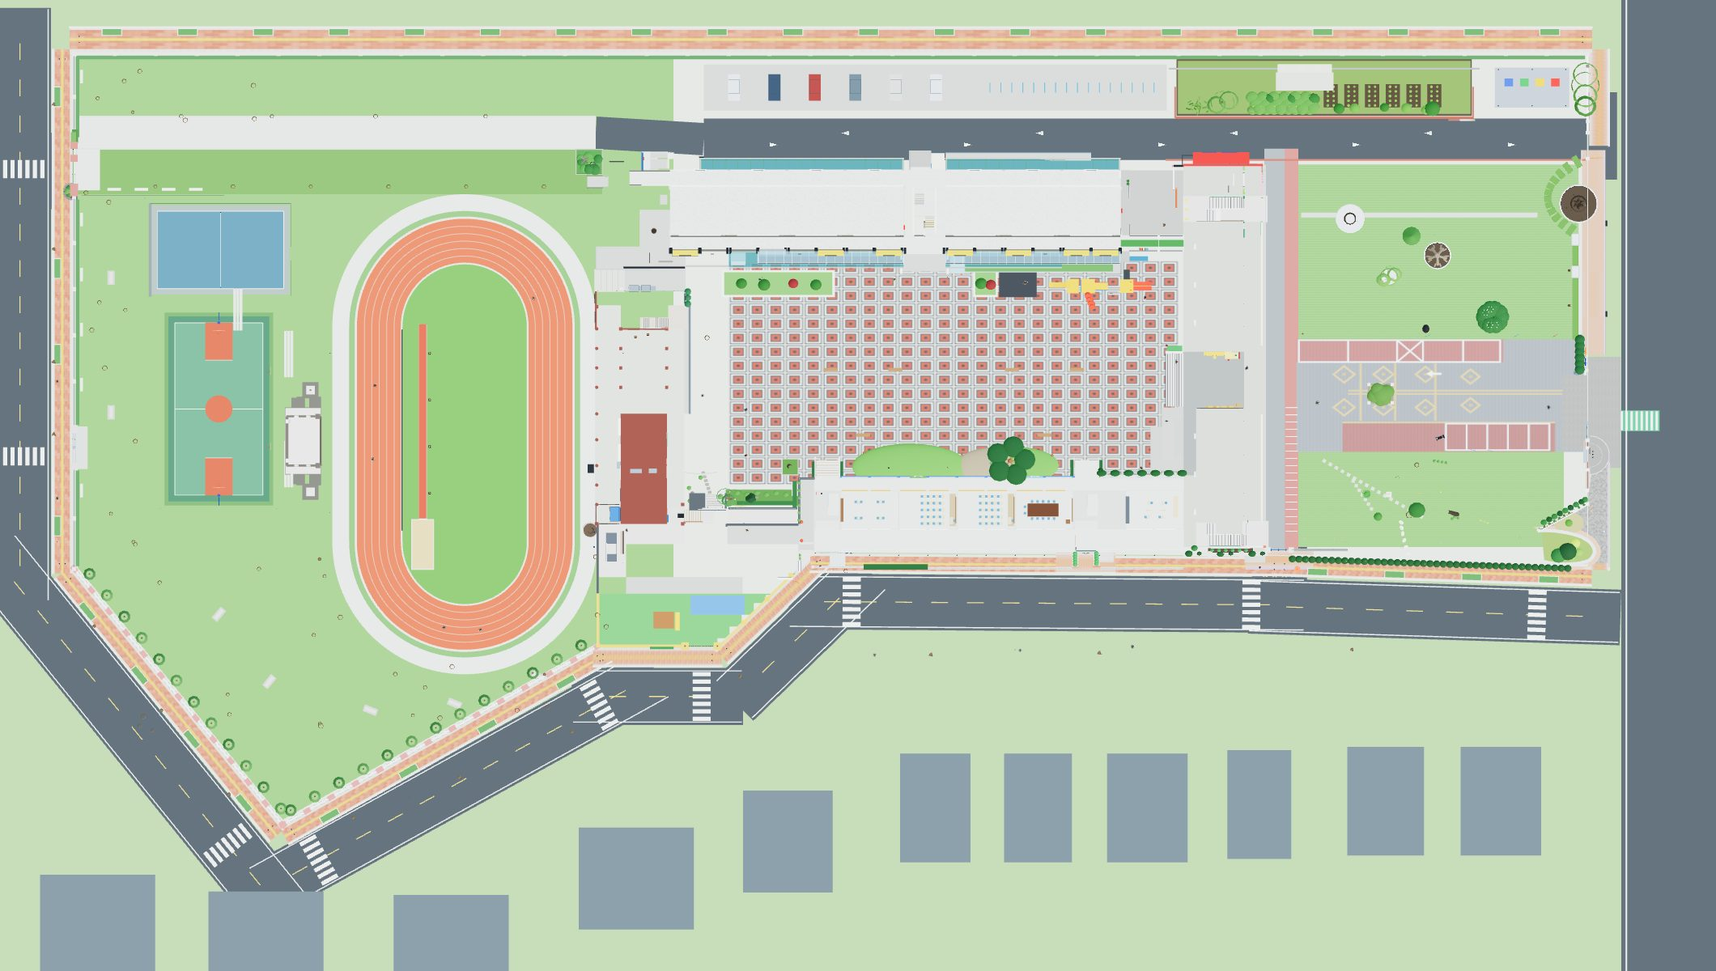
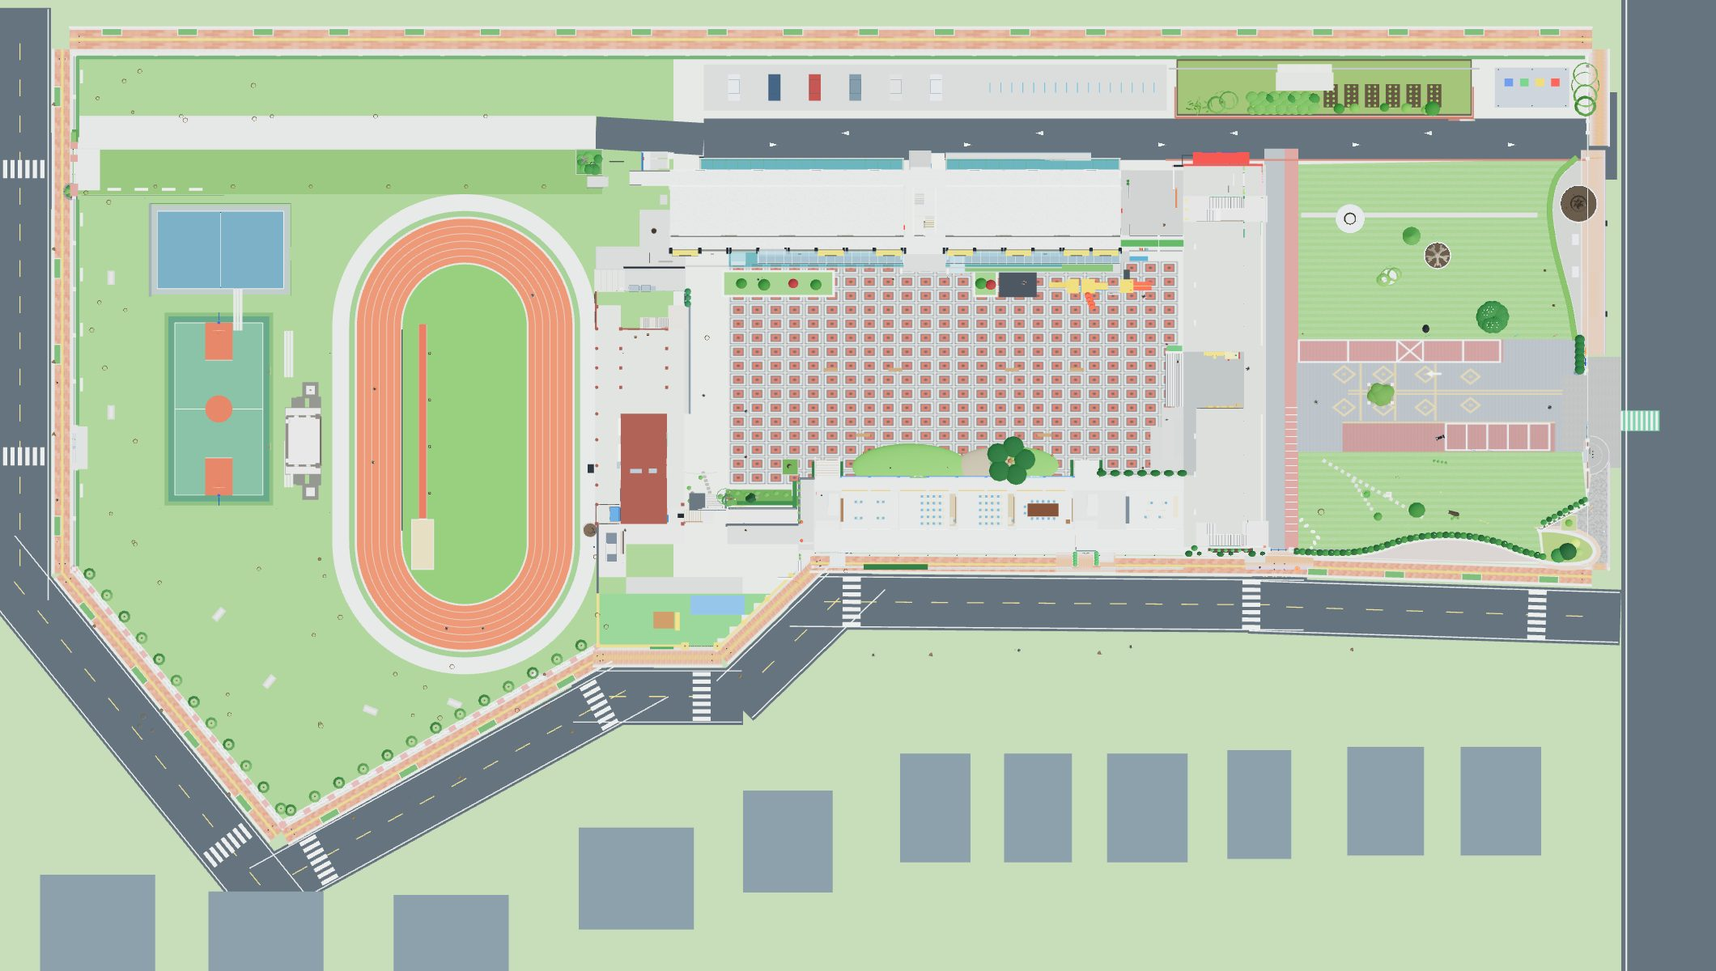
feat(forecourt): reshape main-gate landscaping to the forecourt hedge plan (v2.11.2)
Per the school's forecourt hedge-planting plan (東棟大樓 / 學校大門 / 新南側門 / 東側門):
- south lawn: plan outline instead of a rectangle - straight along the plaza, along
  the gate fence and diagonal low wall, and an S-curve along Jianxing S. Rd Lane 42
- south boundary (Segment A): straight wall replaced by the S-curved washed-stone
  low wall with a continuous Fenggang persimmon / osmanthus hedge on the lawn side;
  the recess outside is paved; canopy trees follow the curve
- north lawn: plan outline with one arc toward Fuxing Rd from the FU-SHING wall,
  behind the old banyan, to the east-gate south pier; continuous clipped hedge
  along the arc (replacing the straight runs and the small banyan arc); paving
  between the arc and the sidewalk; goldenrain trees moved inside the arc
- plan's square bed in the paved bay between the corner lobe and the diagonal wall
- plan tree and nine white stepping stones moved to their plan positions by the new
  south gate (the old plan mapping compressed the forecourt depth by ~13 m)
- shared world-space plan curves and helpers (sampleXZCurve / offsetXZ / flatXZPoly)
- admin map images regenerated

Claude-Session: https://claude.ai/code/session_0167Rfd13qErLKZLgH1cNLB3

Changed region(s): [[0.8406, 0.1542, 0.934, 0.3392], [0.7472, 0.5242, 0.9028, 0.5858], [0.9028, 0.4625, 0.934, 0.5242]]

diff --git a/campus-3d.js b/campus-3d.js
@@ -958,6 +958,47 @@ function makeCampusLawnTexture() {
   return tex;
 }
 
+// ============================================================================
+// 《學校前庭綠籬規劃平面圖》換算之世界座標曲線（v2.11.2）
+//  ・南側（建興南路42巷）邊界：自轉角圓弧花台西端起，向北內凹成 S 形曲線，至學校新南側門
+//  ・北側草坪臨復興路緣：自 FU-SHING 波浪矮牆北端起，向草坪內凹之大圓弧，經老榕樹後方至東側門南柱
+//  平面圖錨點：校門主立柱 (px 340) ↔ z 5.2、新南側門 (px 98) ↔ z 21、草坪北緣 (py 300) ↔ x 70.2、
+//  FU-SHING 北端 (px 488) ↔ z −12.6、東側門 (px 760) ↔ z −40；平面圖縱橫比例不一，故分段換算。
+// ============================================================================
+const FORECOURT_SOUTH_CURVE = [   // [x, z]，由東（花台）往西（新南側門）
+  [108.1, 21.6], [104.6, 20.6], [101.7, 19.5], [97.2, 18.5], [92.0, 18.3],
+  [86.9, 19.0], [83.0, 20.2], [79.2, 20.9], [74.1, 21.0], [70.2, 20.8]
+];
+const FORECOURT_NORTH_CURVE = [   // [x, z]，由南（FU-SHING 矮牆北端）往北（東側門南柱）
+  [113.8, -12.6], [112.9, -18.0], [111.6, -23.0], [110.4, -28.0], [109.9, -33.5], [111.0, -37.5], [113.9, -40.3]
+];
+function sampleXZCurve(pts, step = 0.5) {
+  const curve = new THREE.CatmullRomCurve3(pts.map(([x, z]) => new THREE.Vector3(x, 0, z)), false, 'centripetal');
+  return curve.getSpacedPoints(Math.max(4, Math.ceil(curve.getLength() / step)));
+}
+function offsetXZ(points, dist, towardX, towardZ) {  // 沿法線偏移；toward 指定偏移的大致方向
+  return points.map((p, i) => {
+    const a = points[Math.max(0, i - 1)], b = points[Math.min(points.length - 1, i + 1)];
+    let nx = -(b.z - a.z), nz = b.x - a.x;
+    const l = Math.hypot(nx, nz) || 1; nx /= l; nz /= l;
+    if (nx * towardX + nz * towardZ < 0) { nx = -nx; nz = -nz; }
+    return new THREE.Vector3(p.x + nx * dist, 0, p.z + nz * dist);
+  });
+}
+function flatXZPoly(points, mat, y, parent, uvScale = 0.1) {
+  const sh = new THREE.Shape();
+  points.forEach((p, i) => { if (i === 0) sh.moveTo(p.x, -p.z); else sh.lineTo(p.x, -p.z); });
+  sh.closePath();
+  const geo = new THREE.ShapeGeometry(sh);
+  const uv = geo.attributes.uv;
+  for (let i = 0; i < uv.count; i++) uv.setXY(i, uv.getX(i) * uvScale, uv.getY(i) * uvScale);
+  geo.rotateX(-Math.PI / 2);
+  const m = new THREE.Mesh(geo, mat);
+  m.position.y = y; m.receiveShadow = true;
+  parent.add(m);
+  return m;
+}
+
 // Exact 7-Vertex Campus Perimeter Polygon (`V0..V6` in pixel coordinates)
 // The Rear Perimeter Wall (`V0 -> V6 -> V5 -> V4`) encloses 100% of the Sports Ground (`08`) & Ball Courts (`09`)
 // with a wide, continuous Campus Green Lawn Buffer Zone (`校園草地緩衝區域`) between the sports ground and the wall!
@@ -2386,54 +2427,48 @@ const planterHedgeMat = new THREE.MeshStandardMaterial({ color: 0x4b8546, roughn
   // - 正門左側臨復興路段 (Z(265)..Z(326)) 為開放式通學步道與弧形綠籬花台。
 
   // 6) South Perimeter Wall & Authentic South Gates (`建興南路42巷`)
-  // Segment A: 東南轉角至學校新南側門 (依據街景照片與《綠籬植栽平面圖》區域二：常綠修剪綠籬矮花台，徹底移除突兀之淡綠色隔離板)
+  // Segment A: 轉角圓弧花台至學校新南側門 — 依《學校前庭綠籬規劃平面圖》改為向北內凹之 S 形抿石子矮牆，
+  //            牆內（草坪側）沿線連續栽植楓港柿／桂花常綠綠籬，牆外內凹處以通學步道連鎖磚補齊。
   {
-    const segAX1 = X(955), segAZ1 = Z(326);
-    const segAX2 = X(772) + 2.0, segAZ2 = Z(320);
-    const segALen = Math.hypot(segAX2 - segAX1, segAZ2 - segAZ1);
-    const segAAng = Math.atan2(segAX2 - segAX1, segAZ2 - segAZ1);
-    const segACx = (segAX1 + segAX2) / 2, segACz = (segAZ1 + segAZ2) / 2;
-
-    const segAGrp = new THREE.Group();
-    segAGrp.position.set(segACx, 0, segACz);
-    segAGrp.rotation.y = segAAng - Math.PI / 2;
-
-    // A. 抿石子低矮基座 (高 0.30m，平整素雅，無任何突兀隔離板)
-    addBox(segAGrp, segALen, 0.30, 0.38, curbStoneMat, 0, 0.15, 0);
-    layerGroups.boundary.add(segAGrp);
-
-    // C. 圍籬外側沿通學步道連續栽植《2023_0604 區域二》楓港柿與桂花樹常綠綠籬 (高約 0.85m)
-    const nHedgesA = Math.max(12, Math.floor(segALen / 1.0));
-    const fenggangMat = new THREE.MeshStandardMaterial({ color: 0x214f24, roughness: 0.65 }); // 屏東原生常綠楓港柿
-    const osmanthusFlowerMat = new THREE.MeshStandardMaterial({ color: 0xfff6ad, roughness: 0.55 }); // 芬芳桂花花簇
-    // 左側東南轉角退縮防突出：依指示移除轉角突出綠籬，從 h = 3 開始栽植
-    for (let h = 3; h <= nHedgesA; h++) {
-      const ratio = h / nHedgesA;
-      const hx = segAX1 + ratio * (segAX2 - segAX1);
-      const hz = segAZ1 + ratio * (segAZ2 - segAZ1);
-      // 綠籬沿通學步道側稍微外推 0.55m
-      const normX = Math.cos(segAAng) * 0.55;
-      const normZ = -Math.sin(segAAng) * 0.55;
-      const hMesh = addMesh(layerGroups.boundary, new THREE.SphereGeometry(0.50, 10, 8), fenggangMat, hx + normX, 0.52, hz + normZ);
-      hMesh.scale.set(1.15, 0.95, 1.1);
-      // 每間隔數株點綴桂花盛開芬芳金黃小白花
+    const wallPts = sampleXZCurve(FORECOURT_SOUTH_CURVE, 0.5);
+    for (let i = 0; i < wallPts.length - 1; i++) {
+      const a = wallPts[i], b = wallPts[i + 1];
+      const len = a.distanceTo(b);
+      const wg = new THREE.Group();
+      wg.position.set((a.x + b.x) / 2, 0, (a.z + b.z) / 2);
+      wg.rotation.y = -Math.atan2(b.z - a.z, b.x - a.x);
+      addBox(wg, len + 0.04, 0.30, 0.34, curbStoneMat, 0, 0.15, 0);
+      addBox(wg, len + 0.06, 0.05, 0.40, curbStoneMat, 0, 0.325, 0);
+      layerGroups.boundary.add(wg);
+    }
+    // 牆內綠籬（平面圖沿牆圓點）
+    const fenggangMat = new THREE.MeshStandardMaterial({ color: 0x214f24, roughness: 0.65 });
+    const fenggangMat2 = new THREE.MeshStandardMaterial({ color: 0x2e6a2c, roughness: 0.68 });
+    const osmanthusFlowerMat = new THREE.MeshStandardMaterial({ color: 0xfff6ad, roughness: 0.55 });
+    const hedgePts = offsetXZ(sampleXZCurve(FORECOURT_SOUTH_CURVE, 0.9), 0.62, 0, -1);
+    hedgePts.forEach((p, h) => {
+      const hMesh = addMesh(layerGroups.boundary, new THREE.SphereGeometry(0.50, 10, 8), h % 2 ? fenggangMat : fenggangMat2, p.x, 0.55, p.z);
+      hMesh.scale.set(1.12, 0.95, 1.08);
       if (h % 3 === 1) {
-        const fl = addMesh(layerGroups.boundary, new THREE.SphereGeometry(0.18, 6, 6), osmanthusFlowerMat, hx + normX + 0.1, 0.78, hz + normZ + 0.1);
+        const fl = addMesh(layerGroups.boundary, new THREE.SphereGeometry(0.17, 6, 6), osmanthusFlowerMat, p.x + 0.1, 0.86, p.z - 0.1);
         fl.scale.set(1.3, 0.85, 1.1);
       }
-      // 綠籬底座覆土微地形
-      addBox(layerGroups.boundary, segALen / nHedgesA + 0.12, 0.10, 0.85, mats.soil, hx + normX, 0.05, hz + normZ, false);
+    });
+    // 牆外內凹處補鋪通學步道連鎖磚（至原直線邊界 z ≈ 21.6）
+    {
+      const outer = wallPts.map(p => new THREE.Vector3(p.x, 0, p.z + 0.18));              // 由東往西
+      const pavMat = new THREE.MeshStandardMaterial({ color: 0xb8a39a, roughness: 0.88, polygonOffset: true, polygonOffsetFactor: -2, polygonOffsetUnits: -2 });
+      flatXZPoly(outer.concat([new THREE.Vector3(70.2, 0, 21.75), new THREE.Vector3(108.1, 0, 21.75)]), pavMat, 0.07, layerGroups.boundary, 1);
     }
-
-    // D. 圍籬內側校園林蔭大喬木群 (樟樹、蒲葵)
-    const nCanopy = 3;
-    for (let t = 0; t < nCanopy; t++) {
-      const tx = segAX1 + ((t + 0.5) / nCanopy) * (segAX2 - segAX1);
-      const tz = segAZ1 + ((t + 0.5) / nCanopy) * (segAZ2 - segAZ1) - 2.8;
-      addMesh(layerGroups.boundary, new THREE.CylinderGeometry(0.22, 0.30, 4.2, 8), mats.slab, tx, 2.1, tz);
-      const trCrown = addMesh(layerGroups.boundary, new THREE.SphereGeometry(2.4, 12, 10), new THREE.MeshStandardMaterial({ color: 0x245422, roughness: 0.85 }), tx, 4.8, tz);
+    // 牆內校園林蔭喬木（沿曲線內側 2.8 m）
+    const canopyPts = offsetXZ(sampleXZCurve(FORECOURT_SOUTH_CURVE, 0.5), 2.9, 0, -1);
+    const crownMat = new THREE.MeshStandardMaterial({ color: 0x245422, roughness: 0.85 });
+    [0.18, 0.55, 0.86].forEach(f => {
+      const p = canopyPts[Math.floor(f * (canopyPts.length - 1))];
+      addMesh(layerGroups.boundary, new THREE.CylinderGeometry(0.22, 0.30, 4.2, 8), mats.slab, p.x, 2.1, p.z);
+      const trCrown = addMesh(layerGroups.boundary, new THREE.SphereGeometry(2.4, 12, 10), crownMat, p.x, 4.8, p.z);
       trCrown.scale.set(1.3, 0.92, 1.25);
-    }
+    });
   }
 
   // 學校新南側門 (座落於東棟大樓右側，建興南路42巷與復興路378巷交會處，依實景照片4 1:1 精確重建)
@@ -15064,6 +15099,8 @@ function buildMainGateLayer() {
   // 平面圖基準：校門主立柱南面 (px=355) 、立柱東面 (py=700)；左 = 南 (+Z)，下 = 東 (+X)
   const SU = 0.0643, SV = 0.078, PX0 = 355, PY0 = 700;
   const P2W = (px, py) => new THREE.Vector3(pylonX + 0.925 - (PY0 - py) * SV, 0, pylonZ + 0.36 + (PX0 - px) * SU);
+  // 平面圖縱向（py → 世界 x）修正：py ≥ 592（大門與圓弧花台一帶）沿用 P2W；py < 592 線性延伸至草坪北緣 py 300 ↔ x 70.2
+  const PD = py => py >= 592 ? pylonX + 0.925 - (PY0 - py) * SV : 70.2 + (py - 300) * ((pylonX + 0.925 - (PY0 - 592) * SV) - 70.2) / 292;
 
   // 小工具：沿切線方向旋轉 (群組局部 +x = 切線，局部 -z = 朝復興路外側)
   const orientTo = (grp, tx, tz) => { grp.rotation.y = -Math.atan2(tz, tx); };
@@ -15787,9 +15824,14 @@ function buildMainGateLayer() {
   {
     const tx = pylonX - 2.9, tz = pylonZ + 10.6;
     // 枯黃草皮小圓塊 (嵌於連鎖磚鋪面中)
-    const dryLawnMat = new THREE.MeshStandardMaterial({ color: 0xaaa36c, roughness: 0.95, polygonOffset: true, polygonOffsetFactor: -3, polygonOffsetUnits: -3 });
-    const lawn = addMesh(mg, new THREE.CylinderGeometry(1.7, 1.7, 0.02, 28), dryLawnMat, tx, 0.18, tz, false);
-    lawn.scale.set(1.35, 1, 1.0);
+    // 平面圖：圓弧花台與斜向矮牆之間鋪面上的「方形植穴」（約 2.6 m 見方，花崗石緣石＋草皮）
+    const dryLawnMat = new THREE.MeshStandardMaterial({ color: 0x8fa35a, roughness: 0.95 });
+    const sqCurbMat = new THREE.MeshStandardMaterial({ color: 0xc9c6bd, roughness: 0.75 });
+    const sq = 2.6;
+    addBox(mg, sq - 0.24, 0.06, sq - 0.24, dryLawnMat, tx, 0.20, tz, false);
+    [[0, sq / 2 - 0.06, sq, 0.12], [0, -(sq / 2 - 0.06), sq, 0.12], [sq / 2 - 0.06, 0, 0.12, sq], [-(sq / 2 - 0.06), 0, 0.12, sq]].forEach(([ox, oz, w, d]) => {
+      addBox(mg, w, 0.16, d, sqCurbMat, tx + ox, 0.25, tz + oz);
+    });
     // 圓球形修剪灌木 (街景中央圓球狀常綠灌木)
     const roundShrubMat = new THREE.MeshStandardMaterial({ color: 0x4d8a2e, roughness: 0.82 });
     const ball = addMesh(mg, new THREE.SphereGeometry(0.58, 14, 11), roundShrubMat, tx, 0.78, tz);
@@ -15855,13 +15897,14 @@ function buildMainGateLayer() {
         c.scale.set(1.2, 0.72, 1.2);
       });
     }
-    const t1 = P2W(215, 335), t2 = P2W(335, 350);
+    // 平面圖草坪內大喬木：舊換算將平面圖縱向壓縮（草坪北緣誤置於 x≈85），改以 PD() 修正至 x≈74
+    const t1 = P2W(222, 330); t1.x = PD(330);
     bigTree(t1.x, t1.z, 1.15);
-    bigTree(t2.x, t2.z, 0.85);
 
     const stepMat = new THREE.MeshStandardMaterial({ color: 0xe9e7e0, roughness: 0.88 });
-    [[122, 332], [138, 328], [154, 325], [170, 322], [184, 320], [197, 319]].forEach(([a, b], i) => {
-      const p = P2W(a, b);
+    // 平面圖白色踏石：自新南側門向東北弧形排列（9 枚）
+    [[105, 345], [112, 332], [122, 322], [134, 318], [148, 322], [161, 326], [175, 320], [189, 312], [203, 306]].forEach(([a, b], i) => {
+      const p = P2W(a, b); p.x = PD(b);
       const st = addMesh(mg, new THREE.CylinderGeometry(0.26, 0.30, 0.05, 10), stepMat, p.x, 0.07, p.z);
       st.scale.set(1.5, 1, 1.0);
       st.rotation.y = i * 0.5;
@@ -16524,8 +16567,19 @@ function buildMainGateLayer() {
     const nLawnMinX = 70.2, nLawnMaxX = 113.8, nLawnMinZ = -39.6, nLawnMaxZ = -12.6;
     const nLawnW = nLawnMaxX - nLawnMinX, nLawnD = nLawnMaxZ - nLawnMinZ;
     const nLawnCx = (nLawnMinX + nLawnMaxX) / 2, nLawnCz = (nLawnMinZ + nLawnMaxZ) / 2;
-    const northTurfMat = new THREE.MeshStandardMaterial({ map: makeCampusLawnTexture(), roughness: 0.88 });
-    addBox(mg, nLawnW, 0.09, nLawnD, northTurfMat, nLawnCx, 0.045, nLawnCz, false);
+    // 依《學校前庭綠籬規劃平面圖》：臨復興路一側為向草坪內凹之大圓弧（FU-SHING 矮牆北端 → 老榕樹後方 → 東側門）
+    const northLawnTex = makeCampusLawnTexture(); northLawnTex.repeat.set(1, 1);
+    const northTurfMat = new THREE.MeshStandardMaterial({ map: northLawnTex, roughness: 0.88, polygonOffset: true, polygonOffsetFactor: -1, polygonOffsetUnits: -1 });
+    const northCurvePts = sampleXZCurve(FORECOURT_NORTH_CURVE, 0.5);
+    {
+      const edge = offsetXZ(northCurvePts, 0.15, -1, 0);
+      const poly = [new THREE.Vector3(nLawnMinX, 0, nLawnMaxZ)].concat(edge).concat([new THREE.Vector3(nLawnMinX, 0, nLawnMinZ)]);
+      flatXZPoly(poly, northTurfMat, 0.09, mg, 0.25);
+      // 弧形綠籬外側至通學步道內緣石之間：灰色連鎖磚鋪面
+      const pavMat = new THREE.MeshStandardMaterial({ color: 0xa9a49c, roughness: 0.86, polygonOffset: true, polygonOffsetFactor: -1, polygonOffsetUnits: -1 });
+      const outerPoly = northCurvePts.map(p => p.clone()).concat([new THREE.Vector3(114.2, 0, -40.3), new THREE.Vector3(114.2, 0, -12.6)]);
+      flatXZPoly(outerPoly, pavMat, 0.08, mg, 1);
+    }
 
     // 草坪北側東西向筆直水泥小徑 (直通有機農場與東北側大榕樹)
     const pathMat = new THREE.MeshStandardMaterial({ color: 0xc4c2ba, roughness: 0.86 });
@@ -16784,46 +16838,17 @@ function buildMainGateLayer() {
     // E. 步道內側修剪綠籬（依 CAD 平面圖：大榕樹後方呈大圓弧形深邃輪廓）與兩座石碑
     // ----------------------------------------------------------------
 
-    // 1. 直線綠籬段（大門北端至兩座石碑）
-    // 段 1: z: -12.6 .. -22.0 (長 9.4m)
-    addBox(mg, 0.90, 1.12, 9.4, boxHedgeMat, 113.3, 0.56, -17.3);
-    addBox(mg, 0.84, 0.08, 9.34, boxHedgeTop, 113.3, 1.14, -17.3);
-
-    // [z: -22.0 .. -24.0 為石碑 1 凹槽]
-
-    // 段 2: z: -24.0 .. -27.0 (長 3.0m)
-    addBox(mg, 0.90, 1.12, 3.0, boxHedgeMat, 113.3, 0.56, -25.5);
-    addBox(mg, 0.84, 0.08, 2.94, boxHedgeTop, 113.3, 1.14, -25.5);
-
-    // [z: -27.0 .. -29.0 為石碑 2 凹槽]
-
-    // 2.【核心特徵】大榕樹後方「大圓弧形綠籬輪廓」(依 CAD 藍圖《學校前庭綠籬平面圖》1:1 精確構建)
-    //   自 (113.3, -29.0) 向西深弧彎入草坪至 x ≈ 108.0，再環繞大榕樹後方優雅銜接至東側門南立柱 (114.4, -40.5)
+    // 依《學校前庭綠籬規劃平面圖》：沿北側草坪臨路大圓弧連續修剪綠籬（FU-SHING 矮牆北端 → 老榕樹後方 → 東側門南柱）
     {
-      const arcP0 = [113.3, -29.0];
-      const arcCtrl = [104.2, -34.8]; // 控制點：向西大幅彎入草坪
-      const arcP1 = [114.3, -40.5];   // 終點：精確接合東側門南門柱
-
-      const nArcSegs = 12;
-      for (let s = 0; s < nArcSegs; s++) {
-        const t1 = s / nArcSegs;
-        const t2 = (s + 1) / nArcSegs;
-
-        const x1 = (1 - t1) * (1 - t1) * arcP0[0] + 2 * (1 - t1) * t1 * arcCtrl[0] + t1 * t1 * arcP1[0];
-        const z1 = (1 - t1) * (1 - t1) * arcP0[1] + 2 * (1 - t1) * t1 * arcCtrl[1] + t1 * t1 * arcP1[1];
-        const x2 = (1 - t2) * (1 - t2) * arcP0[0] + 2 * (1 - t2) * t2 * arcCtrl[0] + t2 * t2 * arcP1[0];
-        const z2 = (1 - t2) * (1 - t2) * arcP0[1] + 2 * (1 - t2) * t2 * arcCtrl[1] + t2 * t2 * arcP1[1];
-
-        const segLen = Math.hypot(x2 - x1, z2 - z1);
-        const segAng = -Math.atan2(z2 - z1, x2 - x1);
-        const segCx = (x1 + x2) / 2, segCz = (z1 + z2) / 2;
-
+      const hedgePts = offsetXZ(northCurvePts, 0.55, -1, 0);
+      for (let i = 0; i < hedgePts.length - 1; i++) {
+        const a = hedgePts[i], b = hedgePts[i + 1];
+        const segLen = a.distanceTo(b);
         const hg = new THREE.Group();
-        hg.position.set(segCx, 0, segCz);
-        hg.rotation.y = segAng;
-
-        addBox(hg, 0.90, 1.12, segLen + 0.12, boxHedgeMat, 0, 0.56, 0);
-        addBox(hg, 0.84, 0.08, segLen + 0.08, boxHedgeTop, 0, 1.14, 0);
+        hg.position.set((a.x + b.x) / 2, 0, (a.z + b.z) / 2);
+        hg.rotation.y = -Math.atan2(b.z - a.z, b.x - a.x);
+        addBox(hg, segLen + 0.10, 1.05, 0.90, boxHedgeMat, 0, 0.525, 0);
+        addBox(hg, segLen + 0.06, 0.08, 0.84, boxHedgeTop, 0, 1.09, 0);
         mg.add(hg);
       }
     }
@@ -16939,13 +16964,15 @@ function buildMainGateLayer() {
     addTrapezoidalMonument(-23.0, 'eco');     // 石碑 1：綠意校園 生態導覽
     addTrapezoidalMonument(-28.0, 'history'); // 石碑 2：百年老榕 歲月風華
 
-    // 綠籬旁 2 棵金黃/羽狀葉台灣欒樹
+    // 綠籬旁 2 棵金黃/羽狀葉台灣欒樹（綠籬改為平面圖大圓弧後，移至弧形綠籬內側 2.2 m 的草坪上）
     const luanLeafMat = new THREE.MeshStandardMaterial({ color: 0x689c38, roughness: 0.80 });
+    const hedgeXAt = z => { let best = northCurvePts[0]; northCurvePts.forEach(p => { if (Math.abs(p.z - z) < Math.abs(best.z - z)) best = p; }); return best.x; };
     [[-17.8, 0.95], [-23.2, 0.92]].forEach(([tz, sc]) => {
-      const trk = addMesh(mg, new THREE.CylinderGeometry(0.14 * sc, 0.22 * sc, 4.2 * sc, 8), trunkBrownMat, 112.5, 2.1 * sc, tz);
+      const tx = hedgeXAt(tz) - 2.8;
+      const trk = addMesh(mg, new THREE.CylinderGeometry(0.14 * sc, 0.22 * sc, 4.2 * sc, 8), trunkBrownMat, tx, 2.1 * sc, tz);
       trk.rotation.z = -0.12;
       [[-0.6, 4.4, 0, 1.4], [0.7, 4.6, 0.5, 1.35], [0, 5.1, -0.5, 1.3]].forEach(([ox, oy, oz, r]) => {
-        const cl = addMesh(mg, new THREE.DodecahedronGeometry(r * sc, 1), luanLeafMat, 112.5 + ox, oy * sc, tz + oz);
+        const cl = addMesh(mg, new THREE.DodecahedronGeometry(r * sc, 1), luanLeafMat, tx + ox, oy * sc, tz + oz);
         cl.scale.set(1.25, 0.72, 1.2);
       });
     });
@@ -16956,8 +16983,22 @@ function buildMainGateLayer() {
     const sLawnMinX = 70.2, sLawnMaxX = 111.5, sLawnMinZ = 4.8, sLawnMaxZ = 19.5;
     const sLawnW = sLawnMaxX - sLawnMinX, sLawnD = sLawnMaxZ - sLawnMinZ;
     const sLawnCx = (sLawnMinX + sLawnMaxX) / 2, sLawnCz = (sLawnMinZ + sLawnMaxZ) / 2;
-    const southTurfMat = new THREE.MeshStandardMaterial({ map: makeCampusLawnTexture(), roughness: 0.88 });
-    addBox(mg, sLawnW, 0.09, sLawnD, southTurfMat, sLawnCx, 0.045, sLawnCz, false);
+    // 依《學校前庭綠籬規劃平面圖》：北緣臨中央廣場直線、東緣沿大門南側欄杆與斜向矮牆、南緣為 S 形曲線
+    const southLawnTex = makeCampusLawnTexture(); southLawnTex.repeat.set(1, 1);
+    const southTurfMat = new THREE.MeshStandardMaterial({ map: southLawnTex, roughness: 0.88, polygonOffset: true, polygonOffsetFactor: -1, polygonOffsetUnits: -1 });
+    {
+      const southEdge = offsetXZ(sampleXZCurve(FORECOURT_SOUTH_CURVE, 0.5), 0.20, 0, -1).reverse();   // 由西往東
+      const wallInner = [];
+      for (let k = 0; k <= 16; k++) {                                                                   // 斜向矮牆內側（由花台往大門）
+        const p = wAt(wallLen * (1 - k / 16)), n = wEast(wallLen * (1 - k / 16));
+        wallInner.push(new THREE.Vector3(p.x - n.x * 0.35, 0, p.z - n.z * 0.35));
+      }
+      const poly = [new THREE.Vector3(sLawnMinX, 0, sLawnMinZ)]
+        .concat(southEdge)
+        .concat(wallInner)
+        .concat([new THREE.Vector3(pylonX - 0.9, 0, sLawnMinZ)]);
+      flatXZPoly(poly, southTurfMat, 0.09, mg, 0.25);
+    }
 
     // 1. Y 字形水泥方塊踏石步道 (照片 4：由西北側停車格旁斜切草坪，中段分岔兩支方塊踏石小徑)
     const paverMat = new THREE.MeshStandardMaterial({ color: 0xc8c6be, roughness: 0.85 });

diff --git a/index.html b/index.html
@@ -43,7 +43,7 @@ window.__updateProgress(15, '正在啟動三維校園引擎...');
 if ('serviceWorker' in navigator) {
   window.addEventListener('DOMContentLoaded', () => {
     window.__updateProgress(25, '校園核心樣式就緒...');
-    navigator.serviceWorker.register('./sw.js?v=2.11.1').then(reg => {
+    navigator.serviceWorker.register('./sw.js?v=2.11.2').then(reg => {
       reg.update();
     }).catch(() => {});
     navigator.serviceWorker.addEventListener('controllerchange', () => {
@@ -76,7 +76,7 @@ document.addEventListener('click', function(e) {
 </script>
 <!-- modulepreload 必須放在 importmap 之後，否則瀏覽器會在 import map 生效前解析 "three" 而失敗 -->
 <link rel="modulepreload" href="./vendor/three/three.module.js">
-<link rel="modulepreload" href="./campus-3d.js?v=2.11.1">
+<link rel="modulepreload" href="./campus-3d.js?v=2.11.2">
 <style>
   /* ==========================================================================
      PKU-3D ("燕园 · 循图，走进燕园") Editorial Design System
@@ -3635,6 +3635,6 @@ document.addEventListener('click', function(e) {
 <script src="./vendor/qrcode.min.js"></script>
 <script src="./data/spots.js"></script>
 <script src="./campus-ui.js?v=2.10.1"></script>
-<script type="module" src="./campus-3d.js?v=2.11.1"></script>
+<script type="module" src="./campus-3d.js?v=2.11.2"></script>
 </body>
 </html>

diff --git a/sw.js b/sw.js
@@ -1,7 +1,7 @@
 // 屏東縣屏東市復興國小 3D 數位校園 (Service Worker)
-// Version: fuxing-3d-campus-v2.11.1
+// Version: fuxing-3d-campus-v2.11.2
 
-const CACHE_NAME = 'fuxing-3d-campus-v2.11.1';
+const CACHE_NAME = 'fuxing-3d-campus-v2.11.2';
 
 // 核心極速快取清單 (App Shell + 3D 引擎 + 1:1 2.5D 高清預覽底圖 + 核心平面圖 + 離線 QR Code)
 const PRECACHE_ASSETS = [
